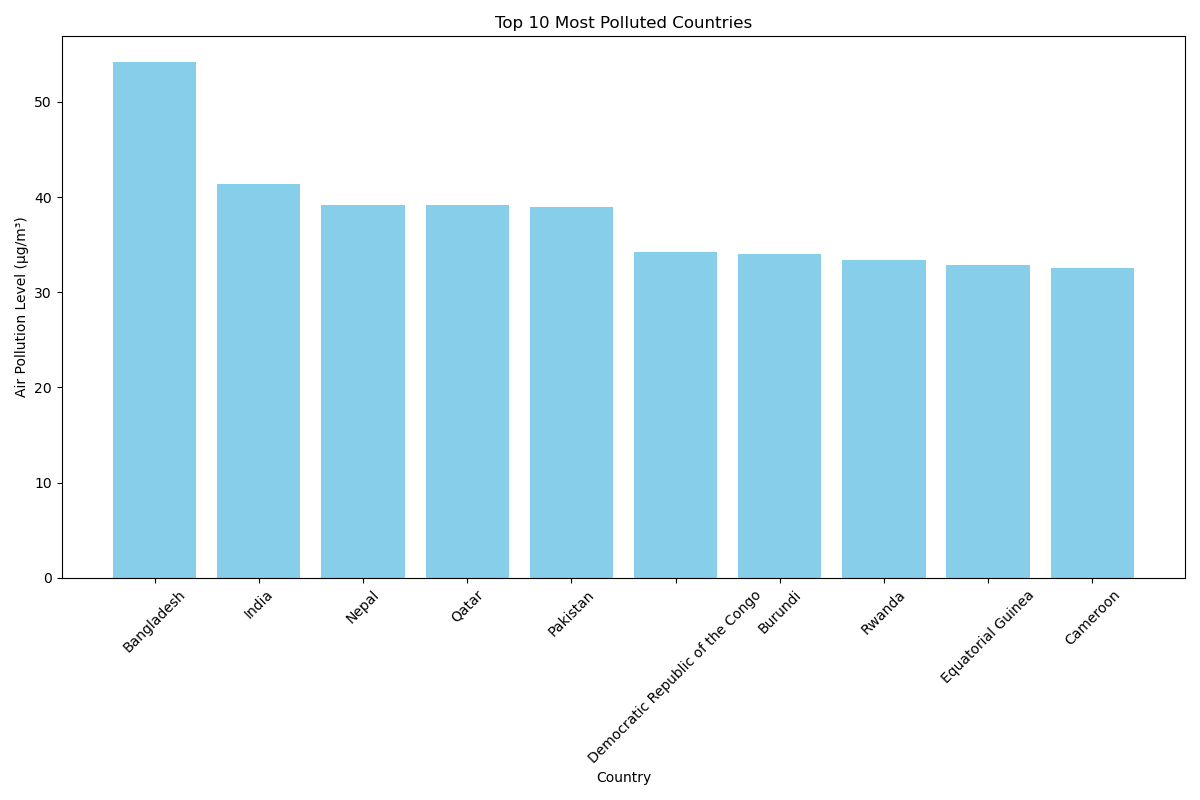
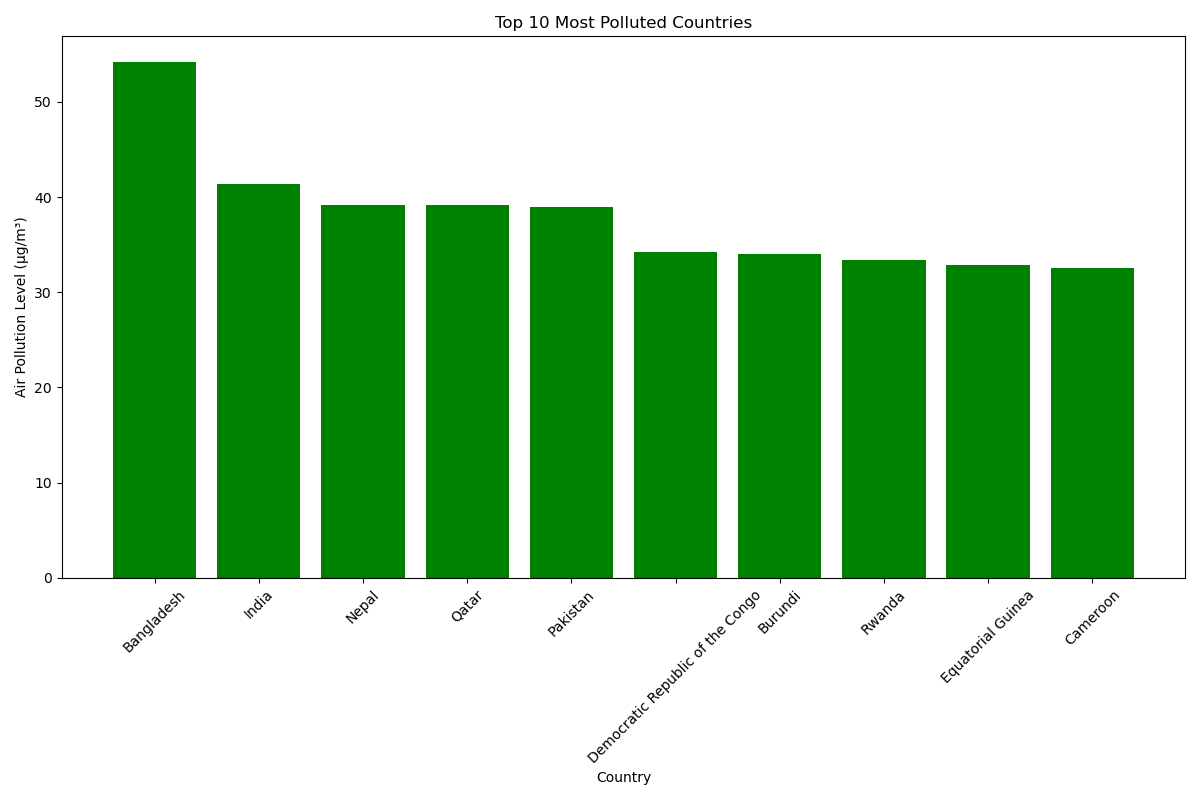
green

diff --git a/barchart.py b/barchart.py
@@ -12,7 +12,7 @@ def get_data(db, query):
 # Create Bar Chart for Top 10 Most Polluted Countries
 def create_pollution_bar_chart(df):
     plt.figure(figsize=(12, 8))
-    plt.bar(df['country'], df['pollution_2023'], color="skyblue")
+    plt.bar(df['country'], df['pollution_2023'], color="green")
     plt.xlabel("Country")
     plt.ylabel("Air Pollution Level (µg/m³)")
     plt.title("Top 10 Most Polluted Countries")
